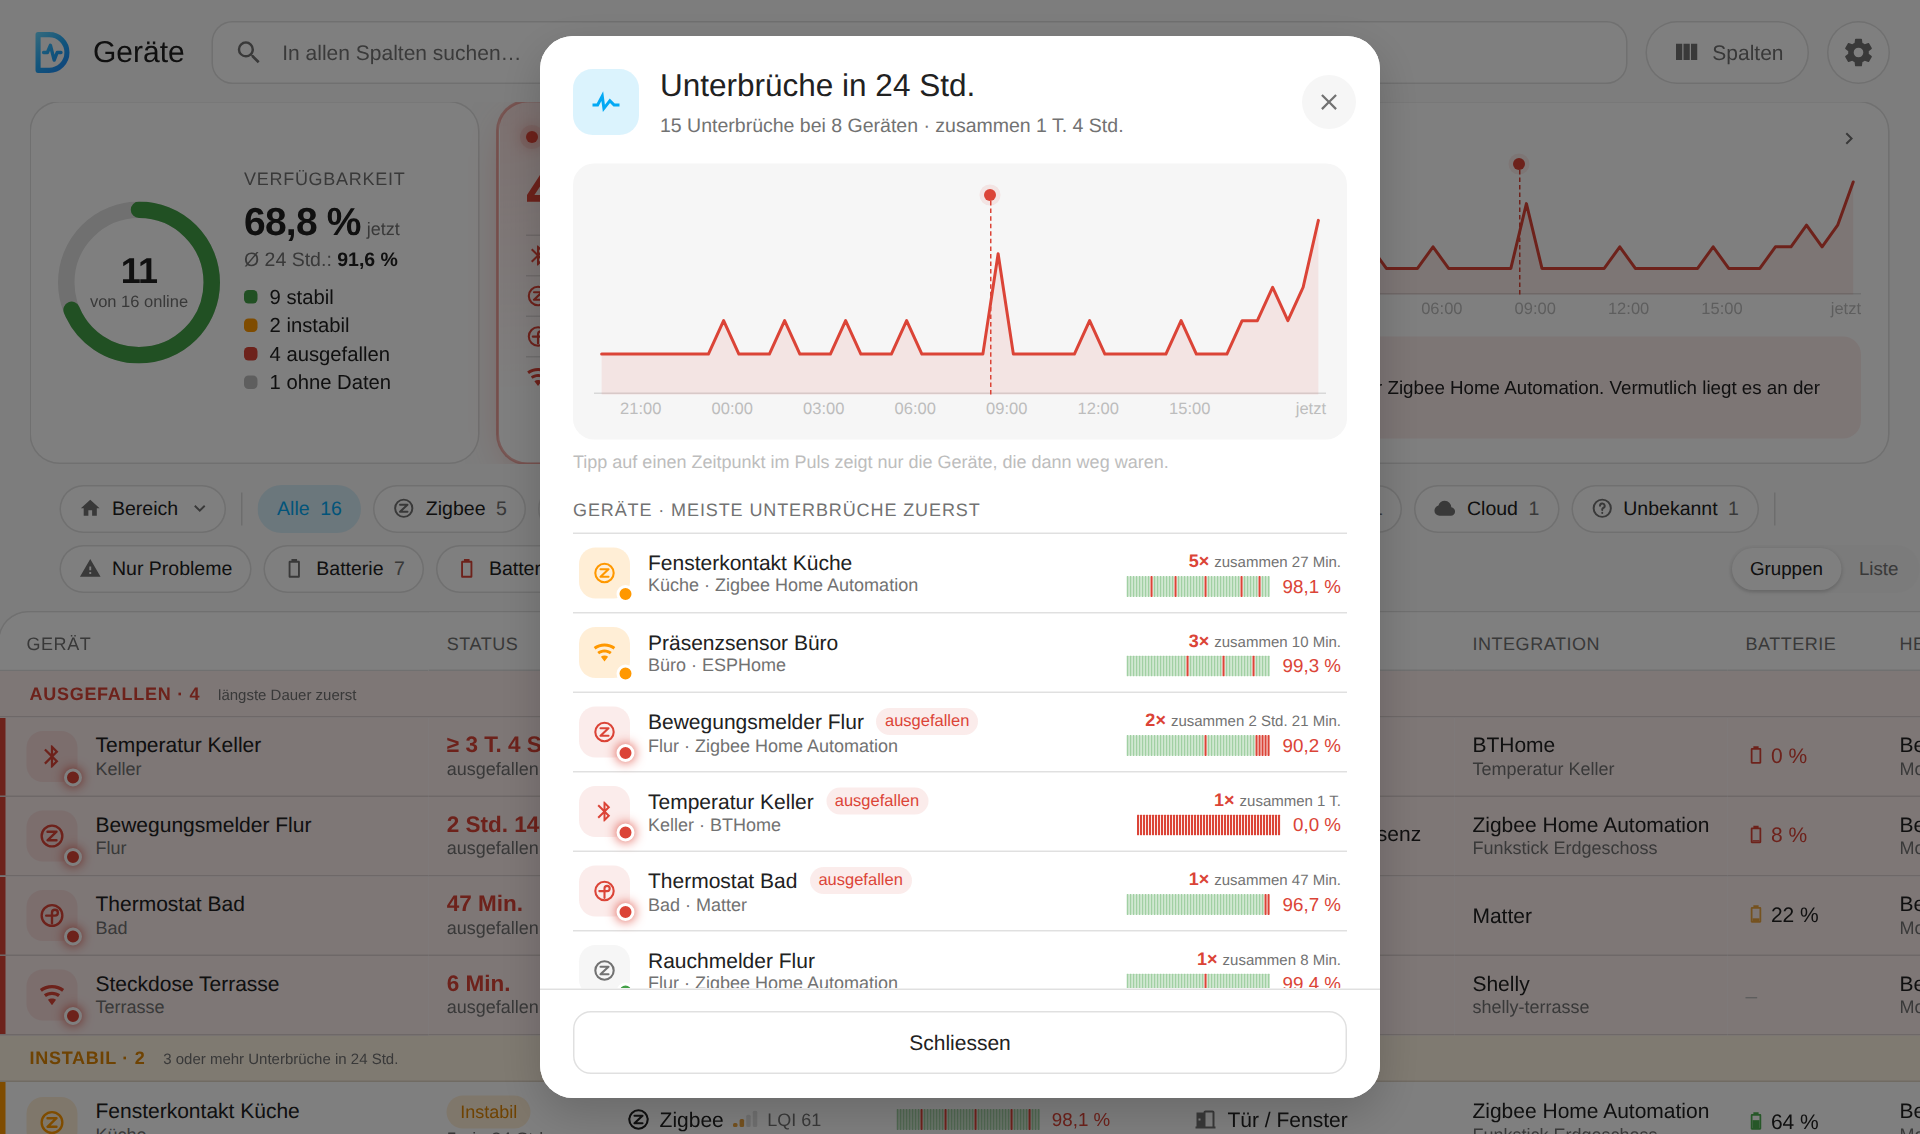
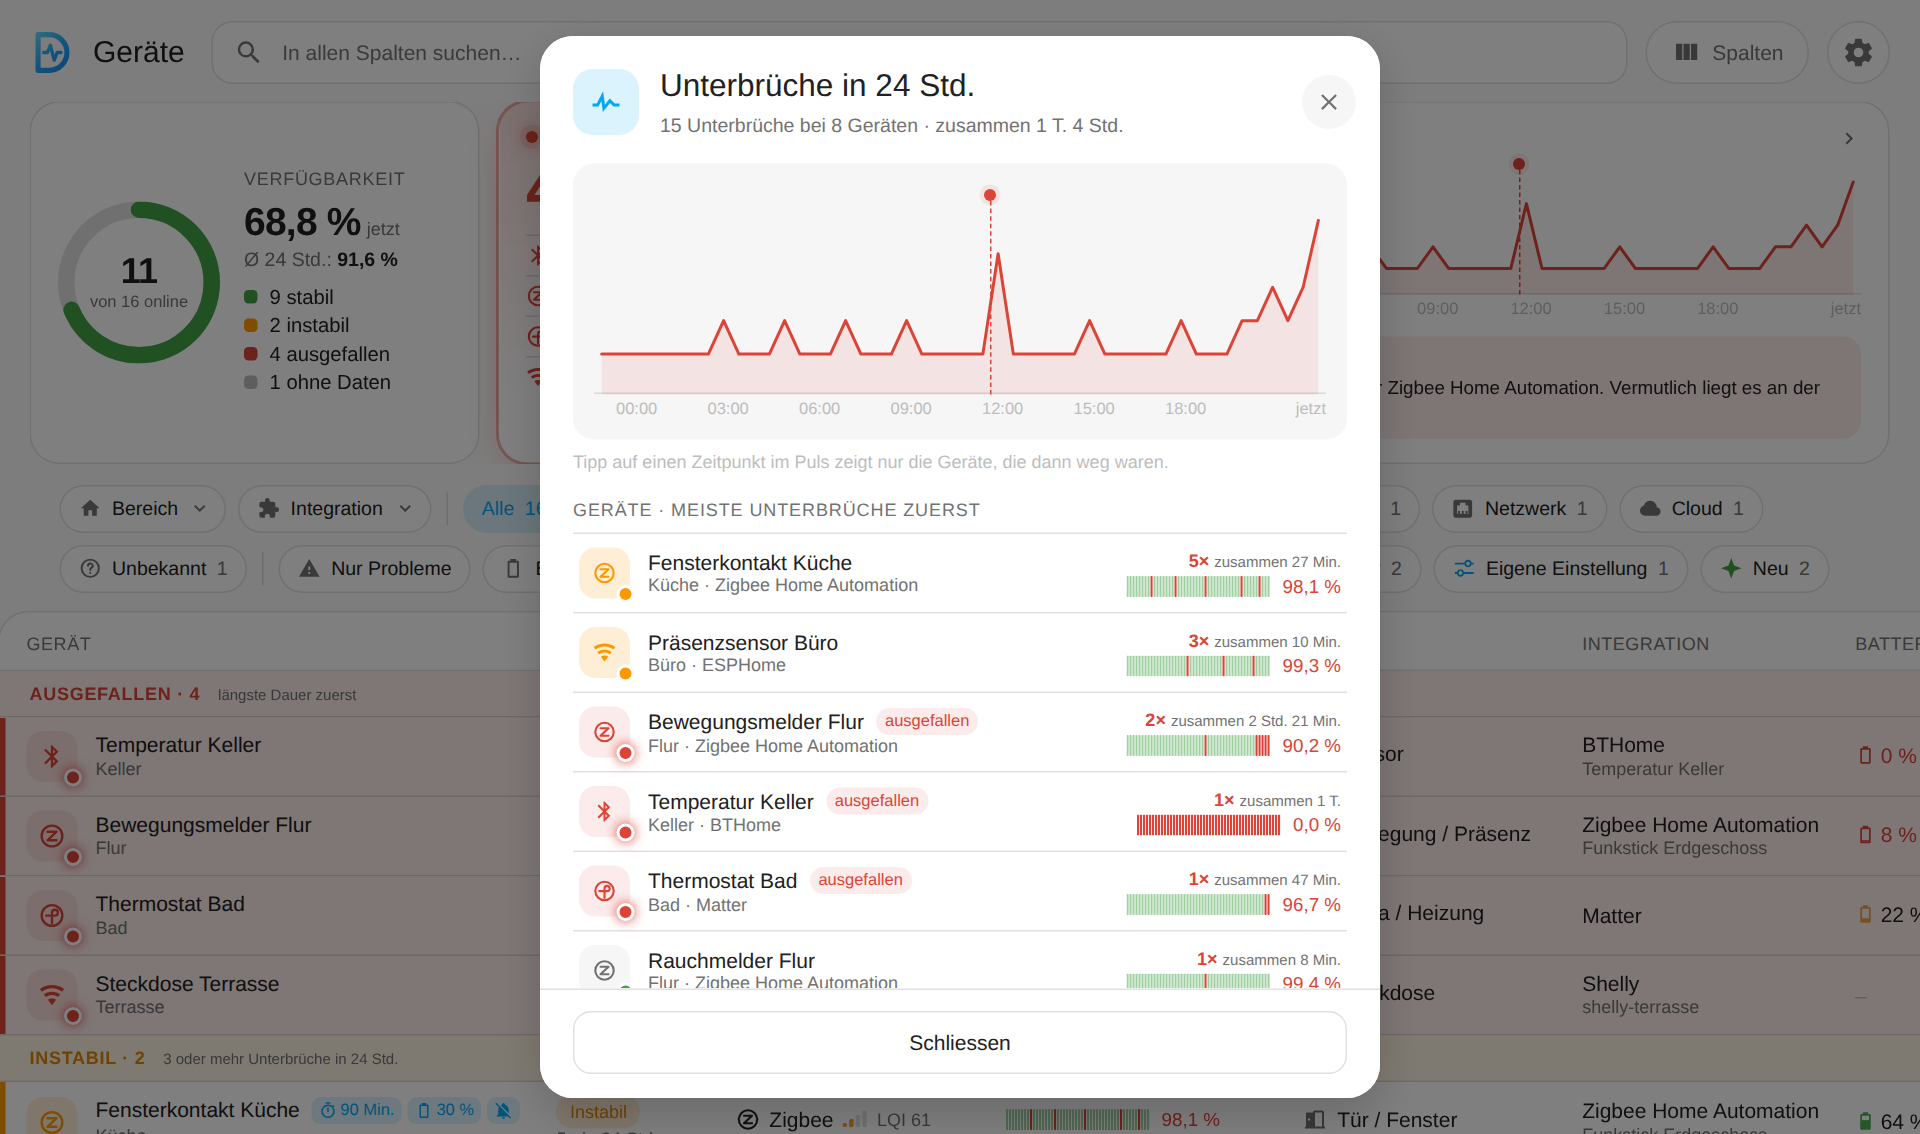
1.12.0: "Gruppen | Liste" wandert in den Dialog "Anpassen"
- Der Schalter steht nicht mehr in der Chip-Zeile (Desktop) und neben der
  Sortierung (Handy), sondern zuoberst im Dialog "Spalten" (Desktop) bzw.
  weiter im Blatt "Ansicht" (Handy), mit Hinweis
- "Standard wiederherstellen" im Desktop-Dialog stellt auch die Gruppen wieder her
- Einstellung und Speicherung unverändert (view.flat, pro Benutzer, Desktop/Handy getrennt)
- PANEL_VERSION 57; Untertitel des Dialogs "Spalten und Darstellung der Liste"
- Tests: view-e2e (Schalter nicht mehr in der Chip-Zeile, im Dialog, Zurücksetzen); alle 29 Suiten grün
- README-Bilder neu erzeugt; CHANGELOG (DE/EN), DESIGN, HANDOVER

Claude-Session: https://claude.ai/code/session_01U1q7hu4Br2u4E6fFdEJMgU

diff --git a/custom_components/device_panel/panel/device-panel.js b/custom_components/device_panel/panel/device-panel.js
@@ -751,11 +751,6 @@ class DevicePanel extends HTMLElement {
         this._cycleSort(sortBtn.dataset.sort);
         return;
       }
-      const flat = ev.target.closest("[data-flat]");
-      if (flat) {
-        this._setView({ flat: flat.dataset.flat === "1" });
-        return;
-      }
       if (ev.target.closest("[data-view-open]")) {
         this._openViewSheet();
         return;
@@ -1476,7 +1471,9 @@ class DevicePanel extends HTMLElement {
       `<div class="dlg-head"><span class="dlg-avatar">${mdi("cols", 28)}</span>
         <div class="dlg-title"><h2>${escape(t("customizeTitle"))}</h2><div class="dlg-sub">${escape(t("customizeSub"))}</div></div>
         <button type="button" class="dlg-close" data-vdone title="${escape(t("close"))}" aria-label="${escape(t("close"))}">${mdi("close", 18)}</button></div>
-      <div class="dlg-body"><p class="dlg-note small">${escape(t("customizeHint"))}</p>
+      <div class="dlg-body"><div class="vline first"><span>${escape(t("viewGroupsOrList"))}</span>${this._vseg("vflat", [["0", escape(t("viewGroups"))], ["1", escape(t("viewList"))]], this._view.flat ? "1" : "0")}</div>
+        <div class="vnote">${escape(t("viewGroupsNote"))}</div>
+        <h3>${escape(t("viewBtn"))}</h3><p class="dlg-note small">${escape(t("customizeHint"))}</p>
         <div class="vrow fixed"><span class="drag-h ph" aria-hidden="true"></span><span class="vl">${escape(t("colName"))}<small>${escape(t("colFixed"))}</small></span>
           <span class="eye dis" aria-hidden="true">${mdi("eye", 20)}</span></div>
         <div class="vlist" data-vlist="cols">${this._orderRowsHtml(this._view.cols, COLUMNS, "cols")}</div></div>
@@ -1503,15 +1500,19 @@ class DevicePanel extends HTMLElement {
     if (dlg?.open) dlg.close();
   }
 
+  // Umschalter (Segment) der Dialoge "Anpassen" und "Ansicht".
+  _vseg(attr, items, value) {
+    return `<span class="seg-sw" role="group">${items
+      .map(([val, label]) => `<button type="button" data-${attr}="${val}" class="${val === value ? "on" : ""}" aria-pressed="${val === value}">${label}</button>`)
+      .join("")}</span>`;
+  }
+
   _renderViewSheet() {
     const dlg = this.shadowRoot.querySelector("dialog.view");
     if (!dlg) return;
     const t = (k, ...a) => this._t(k, ...a);
     const v = this._view;
-    const seg = (attr, items, value) =>
-      `<span class="seg-sw" role="group">${items
-        .map(([val, label]) => `<button type="button" data-${attr}="${val}" class="${val === value ? "on" : ""}" aria-pressed="${val === value}">${label}</button>`)
-        .join("")}</span>`;
+    const seg = (attr, items, value) => this._vseg(attr, items, value);
     const pills = SORT_MOBILE.map((key) => {
       const on = v.sort === key;
       return `<button type="button" class="vpill${on ? " on" : ""}" data-vsort="${key}" aria-pressed="${on}">${on ? mdi("check", 15) : ""}${escape(this._sortLabel(key))}</button>`;
@@ -1610,7 +1611,9 @@ class DevicePanel extends HTMLElement {
         return;
       }
       if (toggle(ev)) return;
-      if (ev.target.closest("[data-vreset]")) this._setView({ cols: defaultView().cols });
+      const flat = ev.target.closest("[data-vflat]");
+      if (flat) this._setView({ flat: flat.dataset.vflat === "1" });
+      else if (ev.target.closest("[data-vreset]")) this._setView({ cols: defaultView().cols, flat: defaultView().flat });
       else if (ev.target.closest("[data-vdone]")) this._toggleCols(false);
     });
     // Escape schliesst den Dialog selbst: Knopf nachführen.
@@ -2308,19 +2311,7 @@ class DevicePanel extends HTMLElement {
       tail += `<button type="button" class="chip hint ${cls} ${on ? "on" : ""} ${n ? "" : "zero"}" data-hint="${key}" aria-pressed="${on}">${mdi(icon, 15)}<span>${escape(this._t(label))}</span> <span class="n">${n}</span></button>`;
     }
     if (tail) html += `<span class="vsep"></span>${tail}`;
-    // Desktop: "Gruppen | Liste" am Ende der Chips; Handy: Zeile darunter.
-    if (!this._narrowQuery.matches) html += this._flatSegHtml();
     return html;
-  }
-
-  _flatSegHtml() {
-    const flat = this._view.flat;
-    return `<span class="seg-sw vseg" role="group">${[["0", "viewGroups"], ["1", "viewList"]]
-      .map(([val, key]) => {
-        const on = (val === "1") === flat;
-        return `<button type="button" data-flat="${val}" class="${on ? "on" : ""}" aria-pressed="${on}">${escape(this._t(key))}</button>`;
-      })
-      .join("")}</span>`;
   }
 
   // Handy: "Sortiert nach" unter den Chips; öffnet das Blatt "Ansicht".
@@ -2328,7 +2319,7 @@ class DevicePanel extends HTMLElement {
     const v = this._view;
     const label = this._sortLabel(v.sort);
     const dir = v.sort === "default" ? "" : mdi(v.dir === "asc" ? "arrowUp" : "arrowDown", 14);
-    return `<button type="button" class="sort-btn" data-view-open aria-label="${escape(`${this._t("sortBy")}: ${label}`)}">${mdi("sort", 16)}<span>${escape(label)}</span>${dir}${mdi("chevronDown", 16)}</button>${this._flatSegHtml()}`;
+    return `<button type="button" class="sort-btn" data-view-open aria-label="${escape(`${this._t("sortBy")}: ${label}`)}">${mdi("sort", 16)}<span>${escape(label)}</span>${dir}${mdi("chevronDown", 16)}</button>`;
   }
 
   _avatar(d, size = 18) {

diff --git a/custom_components/device_panel/panel/styles.js b/custom_components/device_panel/panel/styles.js
@@ -249,7 +249,6 @@ th.sorted, th.sorted .th-sort { color: var(--dp-primary); }
 th.sorted .th-sort svg { opacity: 1; }
 .th-sort:focus-visible { outline: 2px solid var(--dp-primary); outline-offset: 2px; border-radius: 4px; }
 .nbad { color: var(--dp-error); font-weight: 500; }
-.chips .vseg { margin-left: auto; }
 .viewline { display: none; }
 /* Kopf fixieren (seit 0.28.0, docs/mockups/fixed-v1, C; Desktop ebenfalls):
    Sind die Kacheln weggescrollt, steht oben eine Zeile (44 px), darunter die
@@ -953,7 +952,6 @@ dialog.stat-dlg::backdrop { background: rgba(0,0,0,0.7); -webkit-backdrop-filter
   .sort-btn span { overflow: hidden; white-space: nowrap; text-overflow: ellipsis; }
   .sort-btn svg { flex: none; color: var(--dp-primary); }
   .sort-btn svg:last-child { color: var(--dp-text2); }
-  .viewline .vseg { flex: none; margin-left: auto; }
   dialog.device { max-height: 92%; }
   /* Feste Höhe: sonst springt das Blatt bei jeder Änderung des Inhalts
      (Prüfung, Abschnitt auf/zu) und gibt kurz den Hintergrund frei. */

diff --git a/custom_components/device_panel/panel/strings.js b/custom_components/device_panel/panel/strings.js
@@ -128,7 +128,7 @@ export const STRINGS = {
     viewBtn: "Spalten",
     viewTitle: "Ansicht",
     customizeTitle: "Anpassen",
-    customizeSub: "Spalten der Liste · für dich gespeichert, getrennt vom Handy",
+    customizeSub: "Spalten und Darstellung der Liste · für dich gespeichert, getrennt vom Handy",
     customizeHint: "Auge: ein- oder ausblenden. Griff: in eine andere Reihenfolge ziehen.",
     restoreDefault: "Standard wiederherstellen",
     colHide: (c) => `${c} ausblenden`,
@@ -843,7 +843,7 @@ export const STRINGS = {
     viewBtn: "Columns",
     viewTitle: "View",
     customizeTitle: "Customize",
-    customizeSub: "Columns of the list · saved for you, separate from the phone",
+    customizeSub: "Columns and display of the list · saved for you, separate from the phone",
     customizeHint: "Eye: show or hide. Handle: drag into a different order.",
     restoreDefault: "Restore default",
     colHide: (c) => `Hide ${c}`,

diff --git a/custom_components/device_panel/const.py b/custom_components/device_panel/const.py
@@ -13,7 +13,7 @@ PANEL_HTML_FILE = "panel.html"
 STATIC_URL_PATH = f"/{DOMAIN}"
 PANEL_STATIC_URL_PATH = f"{STATIC_URL_PATH}/panel"
 # Cache-Buster: bei jeder Änderung unter panel/ von Hand erhöhen.
-PANEL_VERSION = "56"
+PANEL_VERSION = "57"
 PANEL_PAGE_URL = f"{PANEL_STATIC_URL_PATH}/{PANEL_HTML_FILE}?v={PANEL_VERSION}"
 
 # Mitgeliefertes Bild für Push-Meldungen (Companion-App, "icon_url"), wie in

diff --git a/CHANGELOG.de.md b/CHANGELOG.de.md
@@ -7,6 +7,24 @@ Alle nennenswerten Änderungen an dieser Integration stehen in dieser Datei.
 Das Format folgt [Keep a Changelog](https://keepachangelog.com/de/1.1.0/),
 die Versionsnummern folgen [Semantic Versioning](https://semver.org/lang/de/).
 
+## [1.12.0] - 2026-10-04
+
+"Gruppen | Liste" wandert in den Dialog "Anpassen".
+
+### Geändert
+
+- Der Schalter "Gruppen | Liste" nimmt keinen Platz mehr in der Chip-Zeile ein
+  (Wunsch des Nutzers: Brauchen wir ihn wirklich?). Er steht jetzt ganz oben im
+  Dialog "Anpassen" ("Spalten" auf dem Desktop, "Ansicht" auf dem Handy), mit
+  seinem Hinweis: Gruppen halten die Ausgefallenen zuoberst und sortieren
+  innerhalb jeder Gruppe, die Liste sortiert über alle Geräte (etwa nach
+  Batterie).
+  - Die Einstellung selbst bleibt gleich und pro Benutzer gespeichert,
+    Desktop und Handy getrennt.
+  - "Standard wiederherstellen" im Desktop-Dialog stellt auch die Gruppen
+    wieder her.
+  - Die Chip-Zeile und die Zeile darunter auf dem Handy sind kürzer.
+
 ## [1.11.0] - 2026-10-04
 
 Jeden Filter-Chip ausblenden.
@@ -1324,6 +1342,7 @@ Erste Vorabversion.
 - Tests gegen ein echtes Home Assistant und Playwright-Suiten für das Panel,
   GitHub Actions für die Prüfungen von HACS und hassfest sowie die Tests.
 
+[1.12.0]: https://github.com/Diegofuego871/ha-device-panel/releases/tag/v1.12.0
 [1.11.0]: https://github.com/Diegofuego871/ha-device-panel/releases/tag/v1.11.0
 [1.10.0]: https://github.com/Diegofuego871/ha-device-panel/releases/tag/v1.10.0
 [1.8.0]: https://github.com/Diegofuego871/ha-device-panel/releases/tag/v1.8.0

diff --git a/CHANGELOG.md b/CHANGELOG.md
@@ -7,6 +7,22 @@ All notable changes to this integration are documented in this file.
 The format is based on [Keep a Changelog](https://keepachangelog.com/en/1.1.0/),
 and this project adheres to [Semantic Versioning](https://semver.org/).
 
+## [1.12.0] - 2026-10-04
+
+"Groups | List" moves into the customize dialog.
+
+### Changed
+
+- The switch "Groups | List" no longer takes room in the chip row (requested
+  by the user: do we really need it?). It now sits at the top of the dialog
+  "Customize" ("Columns" on the desktop, "View" on the phone), with its note:
+  groups keep the offline devices on top and sort within each group, the list
+  sorts across all devices (for example by battery).
+  - The setting itself is unchanged and stays saved per user, separate for
+    desktop and phone.
+  - "Restore default" in the desktop dialog also restores the groups.
+  - The chip row and the line below it on the phone are shorter.
+
 ## [1.11.0] - 2026-10-04
 
 Hide any filter chip.
@@ -1275,6 +1291,7 @@ First pre-release.
 - Tests against a real Home Assistant and Playwright suites for the panel,
   GitHub Actions for HACS/hassfest validation and tests.
 
+[1.12.0]: https://github.com/Diegofuego871/ha-device-panel/releases/tag/v1.12.0
 [1.11.0]: https://github.com/Diegofuego871/ha-device-panel/releases/tag/v1.11.0
 [1.10.0]: https://github.com/Diegofuego871/ha-device-panel/releases/tag/v1.10.0
 [1.8.0]: https://github.com/Diegofuego871/ha-device-panel/releases/tag/v1.8.0

diff --git a/docs/HANDOVER.md b/docs/HANDOVER.md
@@ -3,7 +3,7 @@
 Einstieg für jede neue Claude-Code-Session. Zuerst diese Datei lesen, dann
 `CLAUDE.md`, `docs/CONCEPT.md`, `docs/LEARNINGS.md`, `docs/DESIGN.md`.
 
-## Stand (1.11.0, Einstellungen in fünf Abschnitten)
+## Stand (1.12.0, Einstellungen in fünf Abschnitten)
 
 - Repository `Diegofuego871/ha-device-panel`, nur Branch `main` (siehe
   `CLAUDE.md`, "Git und Releases").
@@ -358,6 +358,10 @@ Einstieg für jede neue Claude-Code-Session. Zuerst diese Datei lesen, dann
    ausgeblendeter Chips auf (Probleme, Hinweis, Bereich, Integration),
    Tabelle "Weitere Chips" in Darstellung › Filter-Chips (`CHIP_OTHER`,
    `chipOther`), Trenner nur, wenn "Nur Probleme" oder ein Hinweis erscheint.
+   Gruppen/Liste `1.12.0` (Nutzer, 2026-10-04, Variante A): der Schalter
+   (`view.flat`) steht nicht mehr in der Chip-Zeile (`_flatSegHtml` entfernt),
+   sondern zuoberst im Dialog `cols-dlg` (Desktop) und weiter im Blatt "Ansicht"
+   (Handy); `_vseg()` teilen beide; "Standard wiederherstellen" setzt auch `flat`.
    Kachel "Verfügbarkeit" (Rückfrage des Nutzers, 2026-10-04: 98,7 % trotz
    vollem Ring): Variante B gewählt, gross der Anteil jetzt wie der Ring,
    darunter "Ø 24 Std." (verworfen: A wie bisher, C Durchschnitt mit dem

diff --git a/docs/DESIGN.md b/docs/DESIGN.md
@@ -119,7 +119,8 @@ Status: online = `--dp-success` (Punkt + Pill "Verbunden"), ausgefallen =
   "Standard wiederherstellen" als Textknopf links und "Fertig" rechts.
   Klick auf den Hintergrund oder Escape schliesst. Spaltenkopf als Knopf: Sortiersymbol erscheint beim
   Darüberfahren, die sortierte Spalte in Primärfarbe mit Pfeil.
-  "Gruppen | Liste" als Segment rechts in der Chip-Zeile. Handy: runder
+  "Gruppen | Liste" als Segment zuoberst im Dialog (seit 1.12.0, vorher rechts
+  in der Chip-Zeile). Handy: runder
   Knopf neben der Suche, Zeile "Sortiert nach" unter den Chips, Blatt
   "Ansicht" (Sortier-Pillen, Richtung, Darstellung, Angaben mit Griff und
   Auge, "Standard wiederherstellen" und "Fertig" wie im Dialog).
